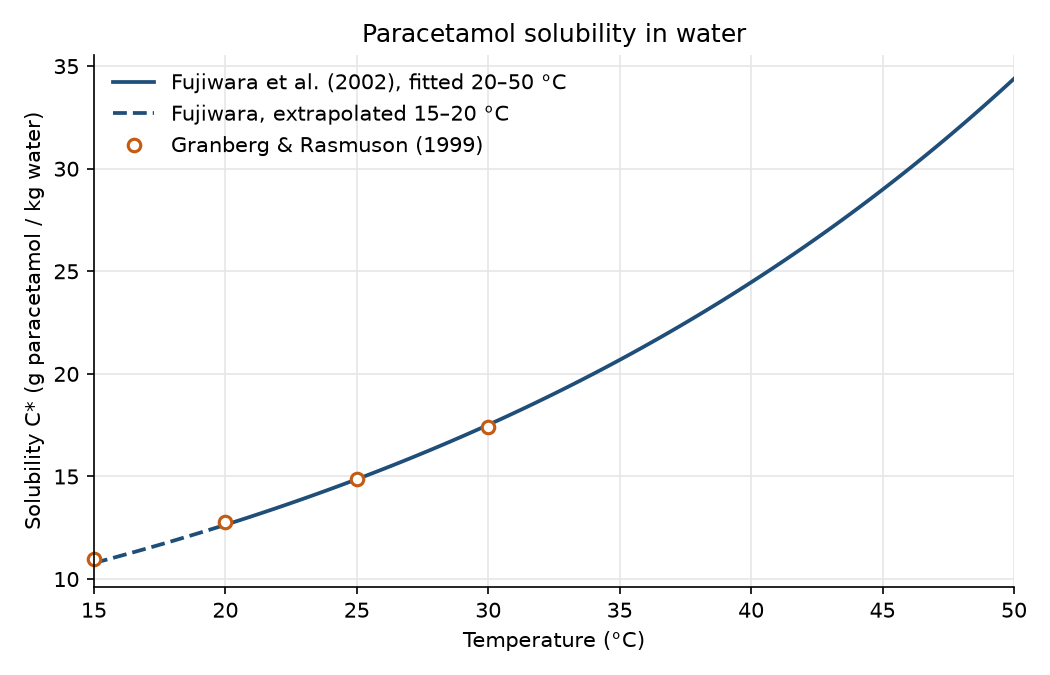
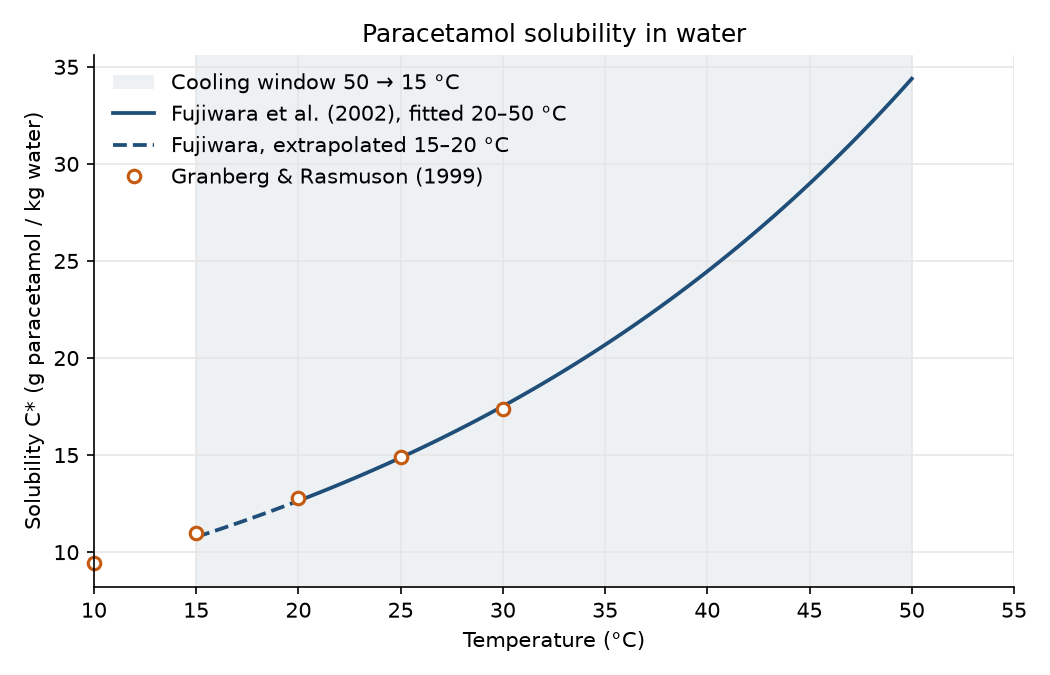
Cite molar mass sources; shade 50→15 °C cooling window on C*(T) plot
M_PA from PubChem CID 1983, M_H2O from NIST WebBook (SRD 69).
Plot x-axis widened to 10–55 °C so the window shows as a band;
Granberg 10 °C point now visible.

diff --git a/scripts/plot_solubility.py b/scripts/plot_solubility.py
@@ -19,9 +19,10 @@ C_star = g_per_kg(mole_fraction(T_C + 273.15))  # warns once: 15-20 °C is extra
 fitted = T_C >= 20
 
 gr = np.genfromtxt(ROOT / "data/granberg_1999_water.csv", delimiter=",", names=True, skip_header=4)
-gr = gr[gr["T_C"] >= 15]  # plot window only; 0-10 °C points stay in the CSV
+gr = gr[gr["T_C"] >= 10]  # plot window only; 0-5 °C points stay in the CSV
 
 fig, ax = plt.subplots(figsize=(7, 4.5))
+ax.axvspan(15, 50, color="#1f4e79", alpha=0.08, lw=0, label="Cooling window 50 → 15 °C")
 ax.plot(T_C[fitted], C_star[fitted], color="#1f4e79", lw=1.8,
         label="Fujiwara et al. (2002), fitted 20–50 °C")
 ax.plot(T_C[T_C <= 20], C_star[T_C <= 20], color="#1f4e79", lw=1.8, ls="--",
@@ -32,7 +33,7 @@ ax.plot(gr["T_C"], gr["g_per_kg"], ls="none", marker="o", ms=6, mfc="white", mec
 ax.set_xlabel("Temperature (°C)")
 ax.set_ylabel("Solubility C* (g paracetamol / kg water)")
 ax.set_title("Paracetamol solubility in water")
-ax.set_xlim(15, 50)
+ax.set_xlim(10, 55)  # margin so the shaded cooling window reads as a band
 ax.grid(color="0.9", lw=0.8)
 ax.spines[["top", "right"]].set_visible(False)
 ax.legend(frameon=False, loc="upper left")

diff --git a/src/crystal_batch/solubility.py b/src/crystal_batch/solubility.py
@@ -10,8 +10,8 @@ A = 5193.109   # Kelvin constant used in the solubility equation from Fujiwara e
 B = 27.121124  # Dimensionless B constant used in the solubility equation from Fujiwara et al. (2002)
 C = -178.28055 # Dimensionless C constant used in the solubility equation from Fujiwara et al. (2002)
 
-M_PA = 151.16 #Molar mass of paracetamol in g/mol
-M_H2O = 18.015 #Molar mass of water in g/mol
+M_PA = 151.16 #Molar mass of paracetamol (C8H9NO2) in g/mol; source: PubChem CID 1983
+M_H2O = 18.015 #Molar mass of water in g/mol; source: NIST Chemistry WebBook, SRD 69 (18.0153, CAS 7732-18-5)
 R = 8.314 #Universal gas constant in J/(mol*K)
 
 def mole_fraction(T_K):
